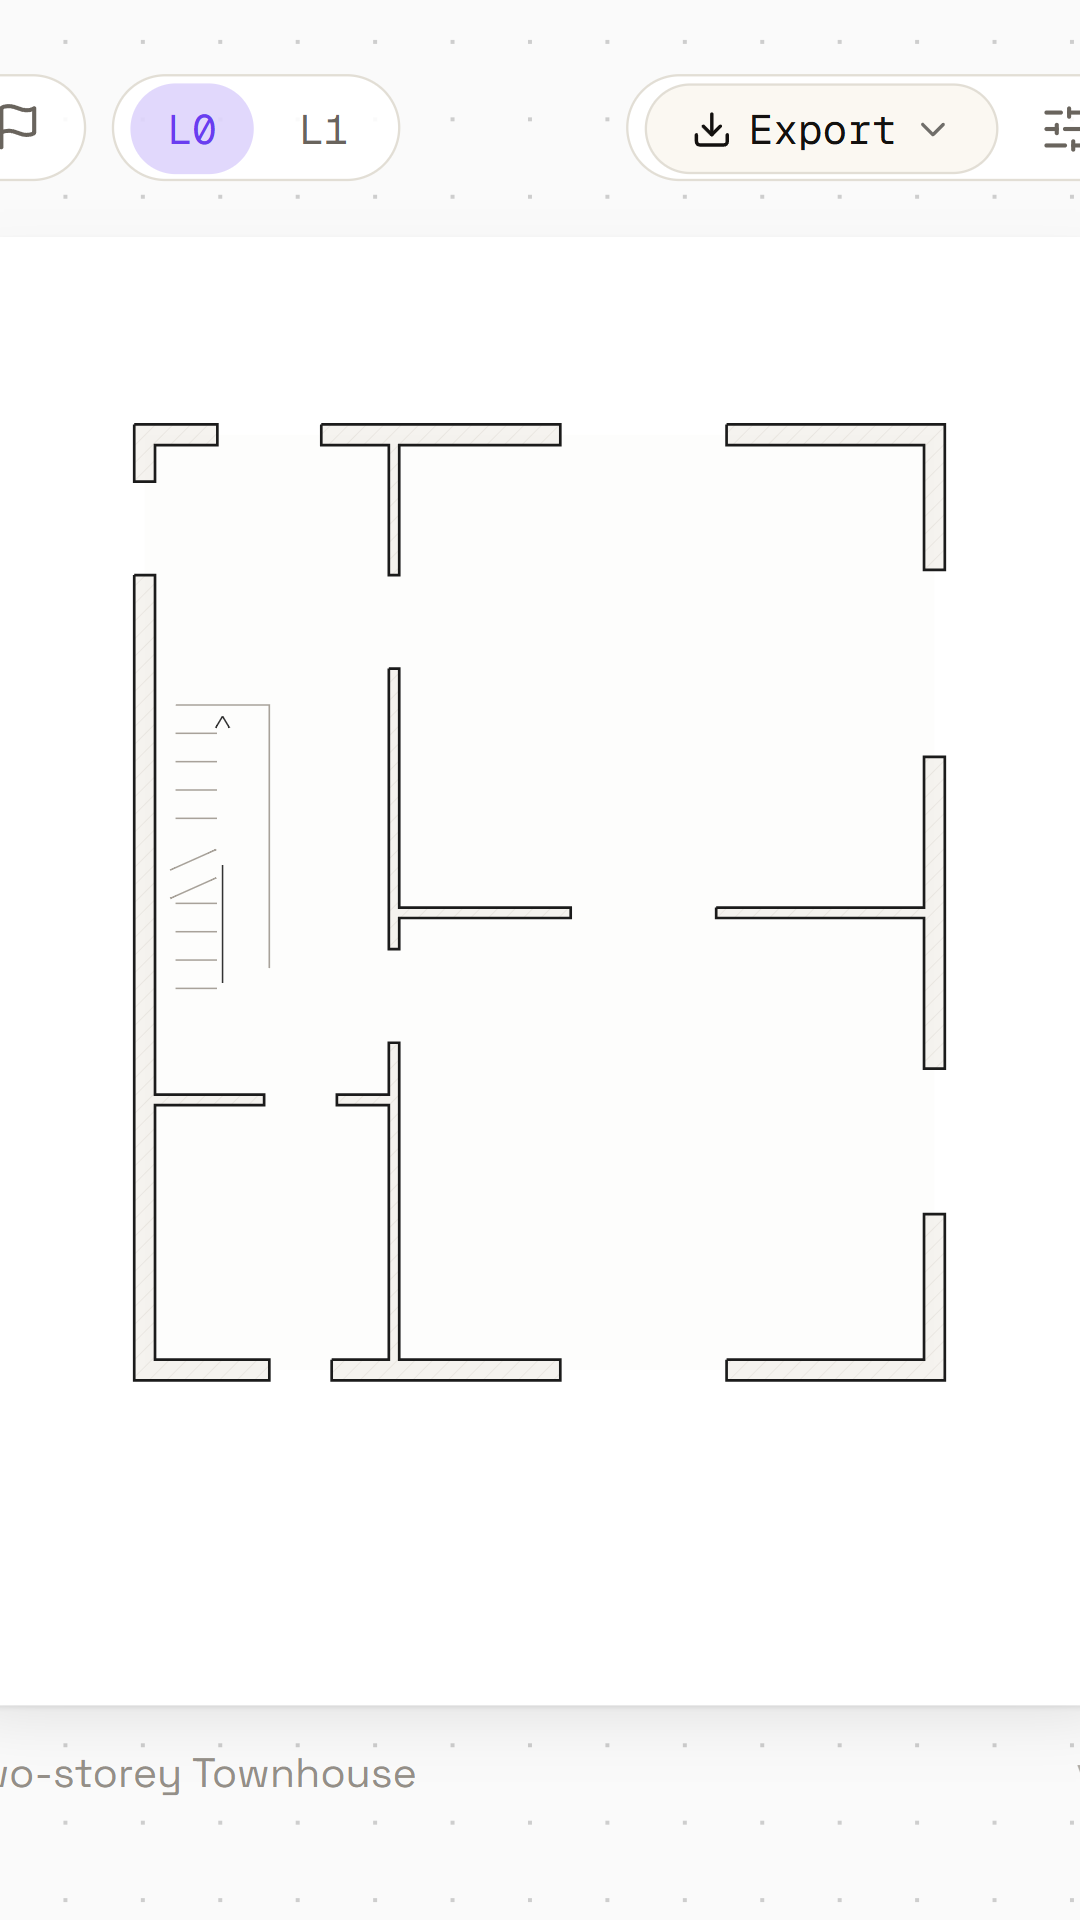
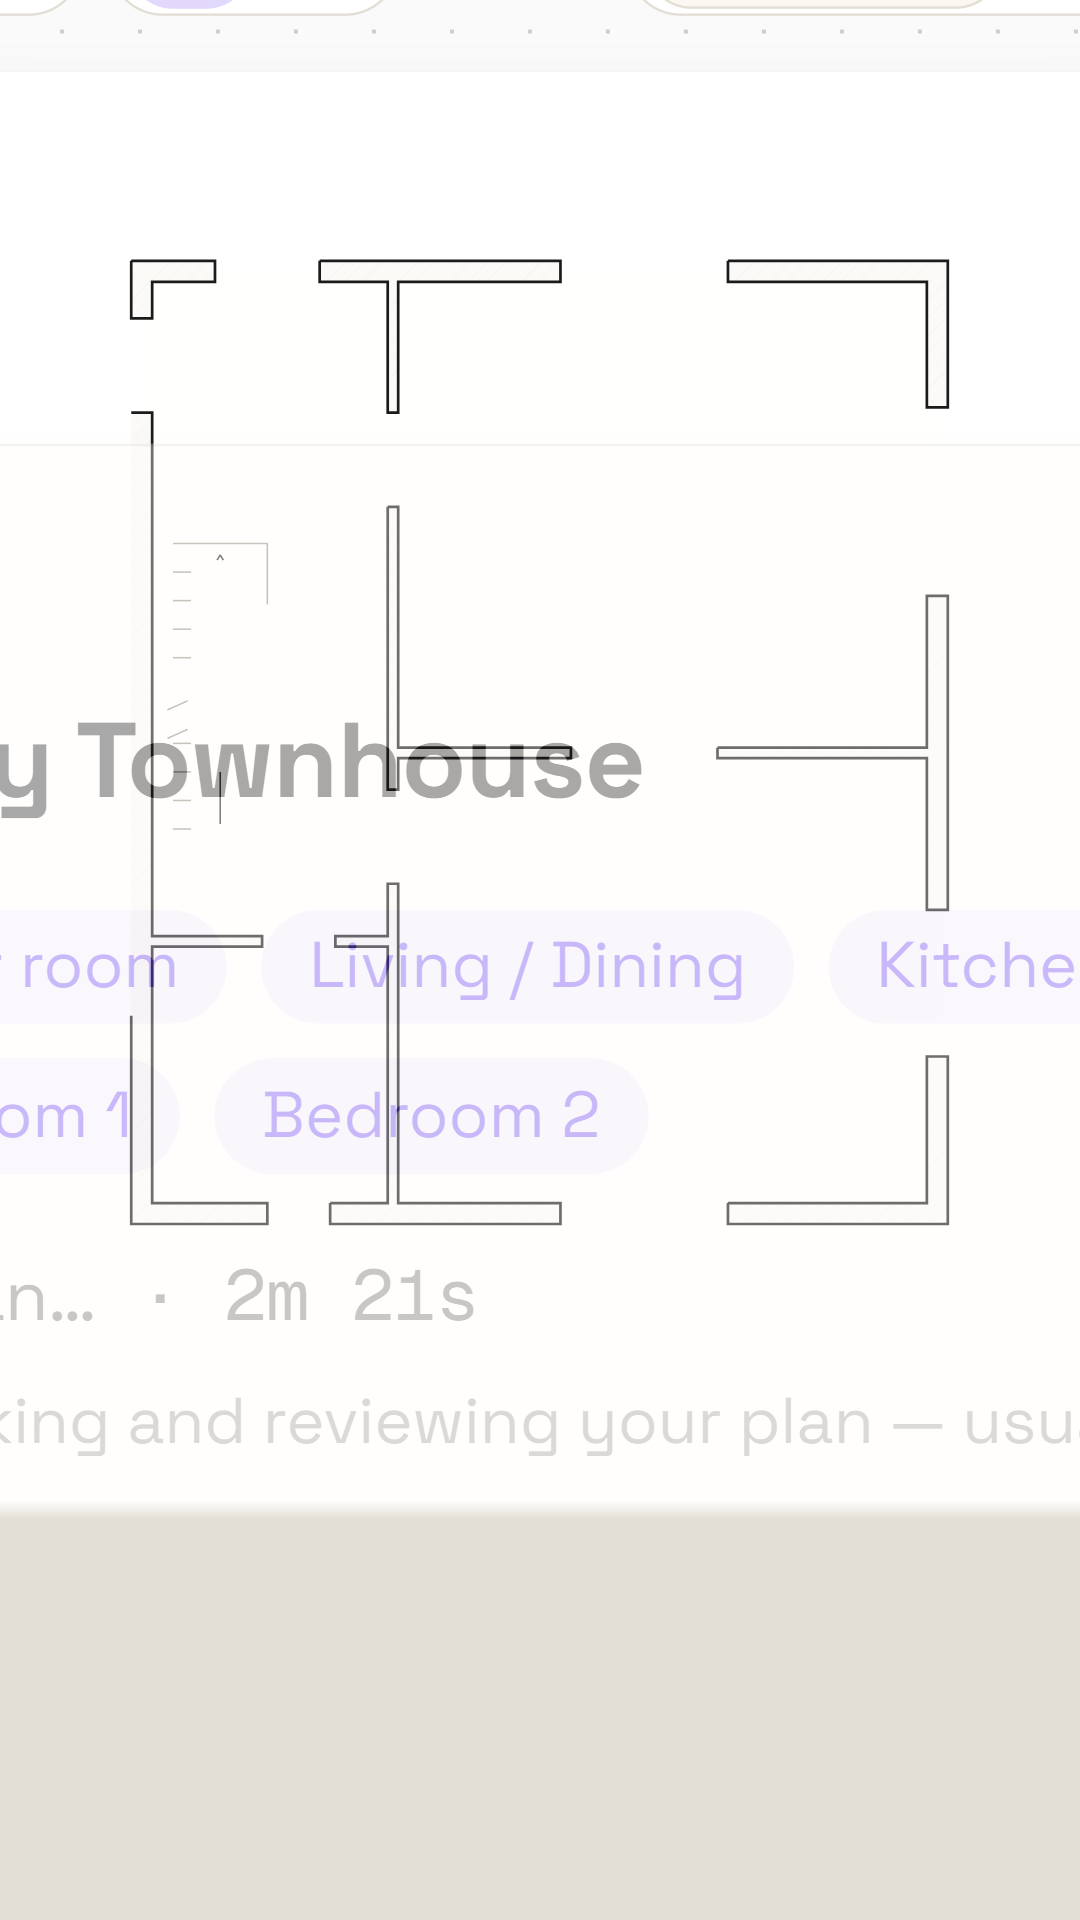
D39-a: the 9:16 picture clips at the mount, and the chapter owns the band
The mount box already cleared the platform furniture — `PICTURE.portrait`
bottoms out at 1520 against a 1530 safe line. The mount is not the picture:
`camera.ts` scales the whole layer about its origin, so a 2.6x push carries
content straight out of the box it was mounted in, and in 9:16 it lands in the
390 px Reels, TikTok and Shorts cover with their own interface. That is where
the sheet's caption row was being cut in half and where the drafting card loses
its sides.

So in 9:16 the picture ENDS at `pictureClipBottom` and the chapter's colour owns
the band below it — which is exactly what a `split` scene has always done with
its type band, now one rule instead of two. A 20 px feather at the clip, because
a hard line across the paper reads as a crop while a short one reads as the
sheet running under the band. In 16:9 the clip is the frame and this costs
nothing.

⚠ The clip is the MOUNT's bottom rather than the safe line, and the ten pixels
are the point: clipping at 1530 would leave a sliver in which pushed-out content
could still show — the same defect with a smaller number on it.

⚠ And the GATES now pass it. `camera.ts` reads `clipBottom` for `fillScale` and
for the protection bounds, so `verify:honesty` and `verify:framing` passing the
mount box and not the clip would have measured a camera the renderer does not
use. That is this repo's oldest failure — the gate that re-implements what it
checks — arriving through an omitted argument rather than a re-derivation, and
[…]

diff --git a/src/components/SceneRouter.tsx b/src/components/SceneRouter.tsx
@@ -3,7 +3,7 @@ import { AbsoluteFill } from "remotion";
 
 import { COPY_FLAGS } from "../copy";
 import { CHAPTER_LABELS } from "../film-demo";
-import { splitStage, useLayout } from "../layout";
+import { PICTURE_FEATHER_PX, pictureClipBottom, splitStage, useLayout } from "../layout";
 import { SCENES, groundOf } from "../scenes";
 import type { ResolvedBeat } from "../timeline";
 import { APP, BAND, SPOT, STAGE } from "../tokens";
@@ -63,18 +63,68 @@ export const SceneRouter: React.FC<{ beat: ResolvedBeat }> = ({ beat }) => {
 
     case "replica":
     default:
-      return (
-        <AbsoluteFill>
-          {beat.scene === "second-brief" ? <SecondBrief beat={beat} /> : <ReplicaSlot beat={beat} />}
-          {scene.chapter && beat.scene !== "second-brief" ? (
-            <ChapterChip label={CHAPTER_LABELS[scene.chapter]} />
-          ) : null}
-        </AbsoluteFill>
-      );
+      return <FullBleed beat={beat} />;
   }
 };
 
 /**
+ * A full-bleed replica beat: the picture, clipped, on the chapter's ground.
+ *
+ * ⚠ The clip is the point. `ReplicaSlot` mounts inside `layout.picture`, and
+ * `camera.ts` then scales the whole layer about its origin — so a 2.6x push
+ * carries content out of the box it was mounted in, and in 9:16 it lands in the
+ * 390 px the platforms cover with their own interface. That is where the
+ * sheet's caption row was being cut in half and where the drafting card was
+ * losing both its sides.
+ *
+ * So the picture ends where `pictureClipBottom` says and the chapter's colour
+ * owns the band below it — which is what a `split` scene has always done with
+ * its type band, now one rule rather than two. In 16:9 the clip is the frame
+ * and this costs nothing.
+ *
+ * The ground is painted OUTSIDE the clip: `ReplicaSlot` paints its own, and a
+ * clipped ground is a clipped ground.
+ */
+const FullBleed: React.FC<{ beat: ResolvedBeat }> = ({ beat }) => {
+  const layout = useLayout();
+  const scene = SCENES[beat.scene];
+  const clip = pictureClipBottom(layout);
+  const clipped = clip < layout.height;
+  /*
+   * A hard line across the paper reads as a crop; a short feather reads as the
+   * sheet running under the band. The mask is on the CLIP layer, which is not
+   * transformed — the trap list's warning is about backing store for large
+   * TRANSFORMED layers, and this is not one.
+   */
+  const feather = clipped
+    ? `linear-gradient(to bottom, #000 calc(100% - ${PICTURE_FEATHER_PX}px), transparent 100%)`
+    : undefined;
+
+  return (
+    <AbsoluteFill style={{ backgroundColor: groundOf(beat.scene) ?? APP.page }}>
+      <AbsoluteFill
+        style={{
+          height: clip,
+          overflow: "hidden",
+          maskImage: feather,
+          WebkitMaskImage: feather,
+        }}
+      >
+        {beat.scene === "second-brief" ? (
+          <SecondBrief beat={beat} />
+        ) : (
+          <ReplicaSlot beat={beat} clipBottom={clipped ? clip : undefined} />
+        )}
+      </AbsoluteFill>
+      {scene.chapter && beat.scene !== "second-brief" ? (
+        <ChapterChip label={CHAPTER_LABELS[scene.chapter]} />
+      ) : null}
+    </AbsoluteFill>
+  );
+};
+
+/**
+ * Whether this beat's split line is on screen./**
  * Whether this beat's split line is on screen.
  *
  * One scene, one flag: `tweak` is the only beat whose line the founder has not
@@ -99,7 +149,8 @@ const Split: React.FC<{ beat: ResolvedBeat; dur: number }> = ({ beat, dur }) => 
   const layout = useLayout();
   const scene = SCENES[beat.scene];
   const { replica, line } = splitStage(layout);
-  const clipBottom = line.y - layout.u(10);
+  // The tighter of the two: a split scene's band, or the picture clip.
+  const clipBottom = Math.min(line.y - layout.u(10), pictureClipBottom(layout));
   /*
    * The band takes the chapter's own colour, so the type sits in the film's
    * colour script rather than on beige under a coloured stage. The review

diff --git a/src/layout-core.ts b/src/layout-core.ts
@@ -153,6 +153,42 @@ export const deriveLayout = (width: number, height: number): Layout => {
   };
 };
 
+/**
+ * Where the PICTURE stops in this frame shape, in film pixels.
+ *
+ * ── Why 9:16 clips and 16:9 does not ───────────────────────────────────────
+ *
+ * The mount box already clears the platform furniture — `PICTURE.portrait`
+ * bottoms out at 1520 against a 1530 safe line — but the mount is not the
+ * picture. `camera.ts` scales the whole layer about its origin, so a 2.6x push
+ * carries content straight out of the box it was mounted in, and in 9:16 that
+ * content lands in the 390 px Reels, TikTok and Shorts cover with their own
+ * interface. Measured: eleven beats across the four vertical cuts put the
+ * sheet's own caption row down there, cut in half by the frame edge
+ * (`-storey Townhouse`), and the drafting card lands cropped on both sides for
+ * the hand-over half-second.
+ *
+ * So in 9:16 the picture ENDS here and the chapter's colour owns the band
+ * below — exactly what a `split` scene already does with its type band, one
+ * rule instead of two. In 16:9 there is no platform band to respect and the
+ * window's own shadow needs the room, so the picture runs to the frame.
+ *
+ * ⚠ The clip is the MOUNT's bottom, not the safe line, and the ten pixels
+ * matter: clipping at 1530 would leave a sliver in which pushed-out content
+ * could still show, which is the defect with a smaller number on it.
+ */
+export const pictureClipBottom = (l: Layout): number =>
+  l.aspect === "portrait" ? l.picture.y + l.picture.h : l.height;
+
+/**
+ * How far the picture dissolves into the band at the clip, in film pixels.
+ *
+ * A hard line across the paper reads as a crop; a short feather reads as the
+ * sheet running under the band. Kept small — past about a thirtieth of the
+ * frame it stops being an edge treatment and starts being a vignette.
+ */
+export const PICTURE_FEATHER_PX = 20;
+
 /* ── the split stage ──────────────────────────────────────────────────────── */
 
 /**

diff --git a/src/layout.ts b/src/layout.ts
@@ -22,8 +22,10 @@ export {
   CUT_SECONDS,
   DELIVERABLES,
   FPS,
+  PICTURE_FEATHER_PX,
   aspectOf,
   deriveLayout,
+  pictureClipBottom,
   splitStage,
   type Aspect,
   type CutId,
